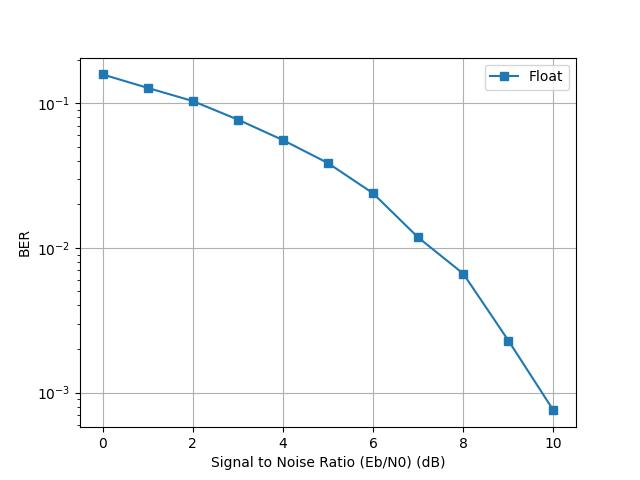
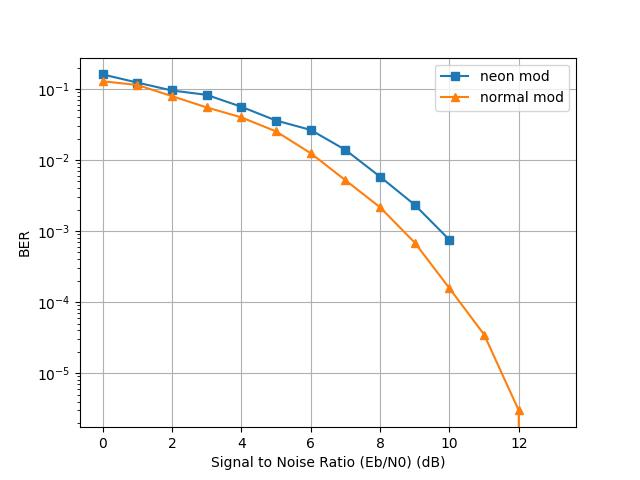
i am stupid - charles leclerc (the modulator is actually modulating now)

diff --git a/Modulateur/modulate.c b/Modulateur/modulate.c
@@ -5,14 +5,15 @@ void module_bpsk_modulate (const uint8_t* CN, int32_t* XN, size_t n) {
         XN[n-1] = (CN[n-1]?-1:1);
 }
 
+// 0 -> 1, 1 -> -1
 void module_bpsk_modulate_neon (const uint8_t* CN, int32_t* XN, size_t n) {
-    printf("modulating\n");
     int8x16_t l8; // temp vector for loading array
     int8x16_t one = vdupq_n_s8(1); // bit mask 
     for (int i=0; i<n; i+=16) {
         l8 = vld1q_s8((int8_t*)CN+i); // load next 16 values
-        l8 = (int8x16_t)vcltzq_s8(l8); // compare < 0
-        vst1q_s8((int8_t*)XN+i,vandq_s8(l8,one)); // mask to get 1 or 0, store in XN
+        l8 = (int8x16_t)vcgtzq_s8(l8);  // check if > 0, 1 -> -1, 0 -> 0
+        l8 = vaddq_s8(l8,l8); // 2*l8, 1 -> -2, 0 -> 0
+        vst1q_s8((int8_t*)XN+i,vaddq_s8(l8,one)); // l8+1, 1 -> -1, 0 -> 1
     }
 }
 

diff --git a/Modulateur/graphs.py b/Modulateur/graphs.py
@@ -9,12 +9,12 @@ import pandas
 ## Files = (namefile, legend, print format)
 ## with print format being first the dot style (x, +, . ...) and then the line style (usually - for continuous or -- for dashed)
 files = [ 
-         ("sim_testing.csv", "Float", "s-"),
-        # ("sim_hard8_stats.csv", "Fixed", "^-"),
+         ("sim_test_demod.csv", "neon demod", "s-"),
+         ("./TP4/Task6/sim_hard8.csv", "normal demod", "^-"),
         # ("sim_hard_neon_stats.csv", "Neon", "x-")
 ]
 
-output = "testing_mod_neon"
+output = "testing_demod_neon"
 xlabel = "Signal to Noise Ratio (Eb/N0) (dB)"  
 ylabel = "BER"
 x = "Eb/No"
